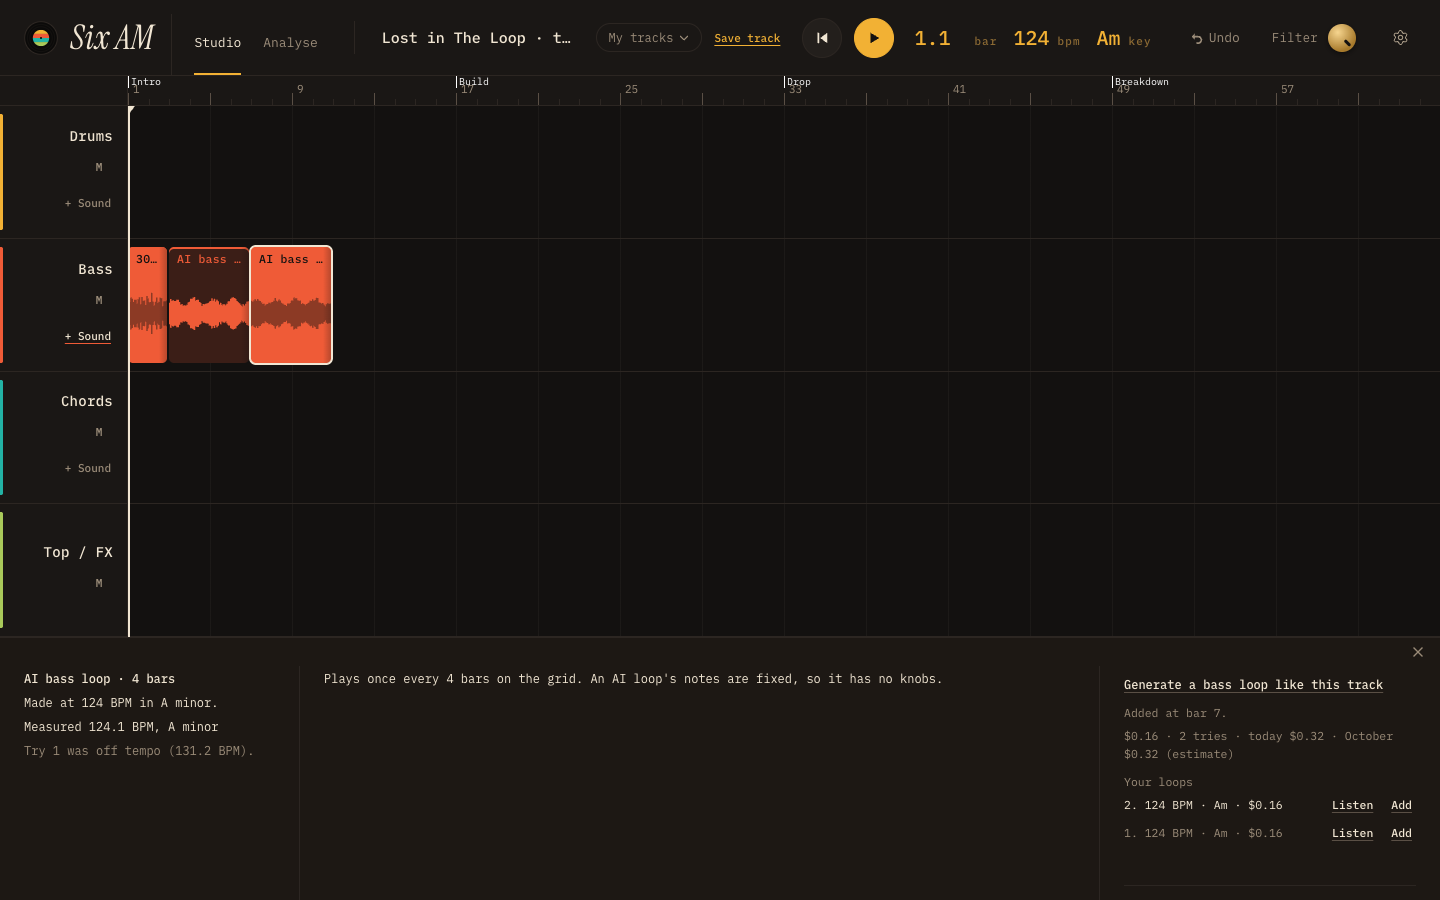
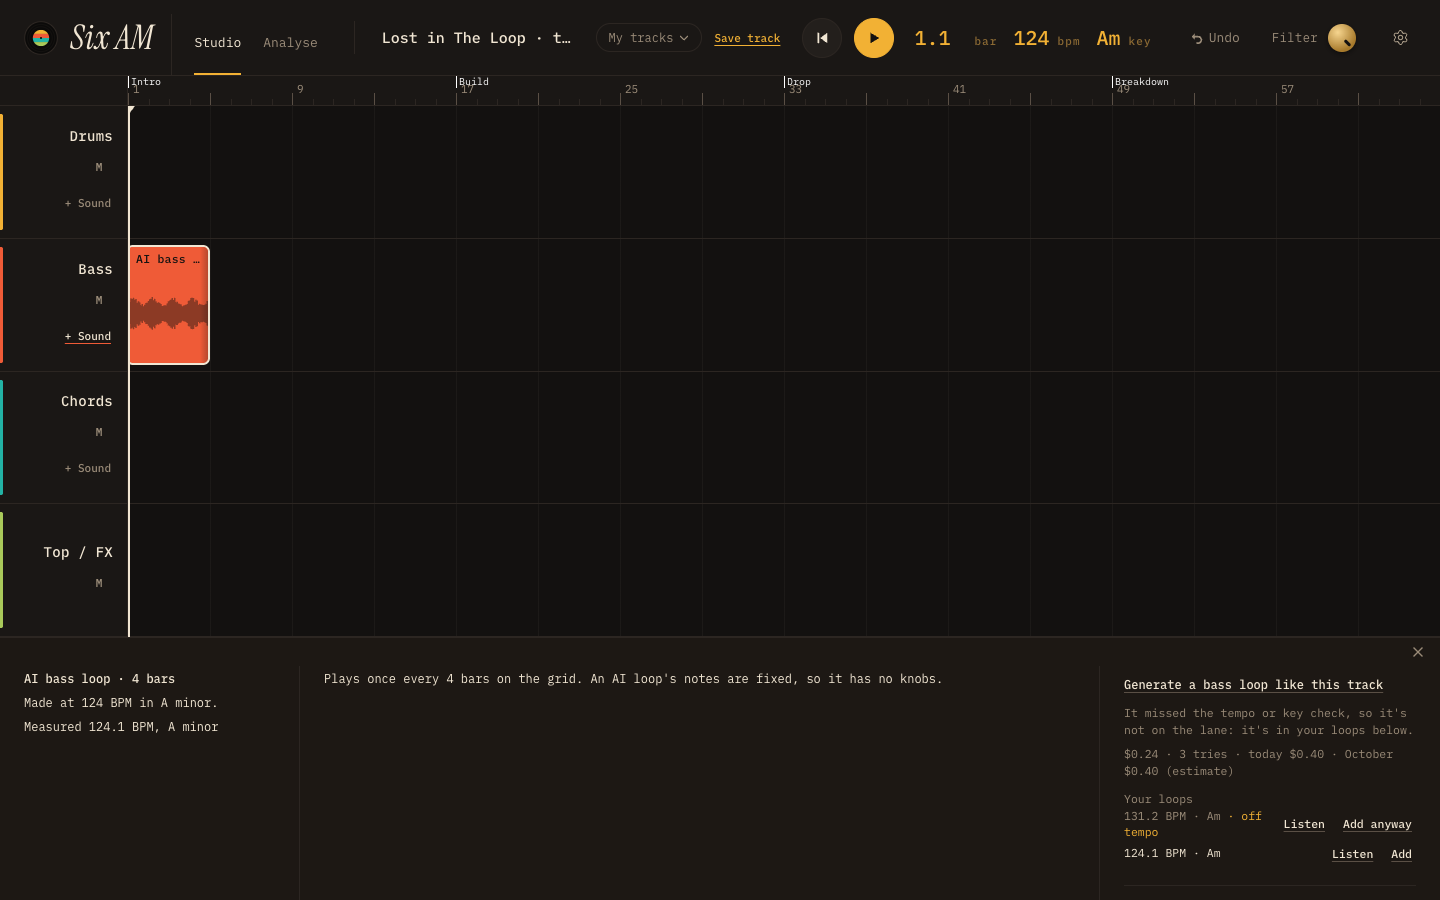
07 Six AM: last fixes N1–N4, at-the-drop label; T72

Changed region(s): [[0.0938, 0.2489, 0.25, 0.4044], [0.7812, 0.7778, 1.0, 0.9644], [0.0938, 0.8089, 0.125, 0.84]]

diff --git a/apps/07-six-am/src/components/studio/sound-drawer.tsx b/apps/07-six-am/src/components/studio/sound-drawer.tsx
@@ -36,8 +36,11 @@ function starter(lane: number, choice?: PresetId | KitId, pattern?: string): Sou
 
 /** One of this track's stored AI loops, as GET /api/loops/generate?analysisId= lists it (numbers only). */
 type Listed = { id: string; bpm: number; key: string; scale: string; bars: number; costUsd: number; draws: number; checked: boolean; measured: { bpm: number; key: string; scale: string } | null; createdAt: string };
-type AiState = { is: "idle" } | { is: "waiting" } | { is: "error" | "limit"; text: string } | { is: "done"; id: string; bar: number | null; why: string | null };
+type AiState = { is: "idle" } | { is: "waiting" } | { is: "error" | "limit"; text: string } | { is: "done"; id: string; bar: number | null; why: string | null; missed: boolean };
 const usdShort = (v: number) => `$${v.toFixed(2)}`;
+/** N2: why a stored loop missed the check, from what was measured; null when it passed. */
+const missTag = (l: { bpm: number; checked: boolean; measured: { bpm: number } | null }) =>
+  l.checked ? null : !l.measured ? "not measured" : Math.abs(l.measured.bpm - l.bpm) > 1 ? "off tempo" : "off key";
 
 export function SoundDrawer({ t, lane, sound, color, onClose }: {
   t: Timeline; lane: number;
@@ -92,7 +95,7 @@ export function SoundDrawer({ t, lane, sound, color, onClose }: {
     // F9: the history shows only the short question; the knob guide and settings go as hidden context.
     const message = `What do cutoff, resonance and ${env} do on my ${PRESETS[cur.preset].name} ${cur.lane === 1 ? "bass" : "chords"}, and which should I turn first?`;
     // F8: the Studio has no automation, so advice must be about one setting per sound.
-    const context = `Answer in two short sentences, for a house track. Current settings: cutoff ${Math.round(k.cutoff)} Hz, resonance ${k.resonance.toFixed(1)}, ${env} ${k.envelope.toFixed(2)} s.\nWhat the knobs do (from Six AM):\n${knobGuide(cur.preset)}\nThe Six AM Studio has no automation: knobs are set once per sound and don't move over time. To change a sound over time (e.g. open the filter for the drop), use two blocks of the sound with different settings. Never suggest automating or sweeping a knob during playback.`;
+    const context = `Answer in two short sentences, for a house track. Current settings: cutoff ${Math.round(k.cutoff)} Hz, resonance ${k.resonance.toFixed(1)}, ${env} ${k.envelope.toFixed(2)} s.\nWhat the knobs do (from Six AM):\n${knobGuide(cur.preset)}\nThe Six AM Studio has no automation: knobs are set once per sound and don't move over time. Knobs belong to the sound, so every block of one sound sounds the same. To change the sound for a part (e.g. a brighter filter for the drop), add the same preset again as a second sound with different knob settings ("Add as a new sound" in the drawer copies the current sound with its knobs) and use that one there. Never suggest automating or sweeping a knob during playback.`;
     try {
       const reply = await mentorApi(code).ask({ job: "chat", message, context });
       setMentor({ is: "done", text: reply.answer.sentences.map((x) => x.text).join(" "), cost: reply.message.costUsd });
@@ -167,7 +170,8 @@ export function SoundDrawer({ t, lane, sound, color, onClose }: {
       // F2: a new loop joins the list; it never replaces an earlier one.
       setMine((list) => [listed, ...list.filter((x) => x.id !== listed.id)].slice(0, 10));
       const tries: Try[] = Array.isArray(data.tries) ? data.tries : [];
-      setAi({ is: "done", id: listed.id, bar: place(asSound(listed)), why: triesReason(tries) });
+      // N1: a loop that missed the tempo/key check stays in Your loops ("Add anyway"), off the lane.
+      setAi({ is: "done", id: listed.id, bar: listed.checked ? place(asSound(listed)) : null, why: triesReason(tries), missed: !listed.checked });
     } catch {
       setAi({ is: "error", text: "Something went wrong making the loop. Try again." });
     }
@@ -189,8 +193,9 @@ export function SoundDrawer({ t, lane, sound, color, onClose }: {
   const at = atDrop ? drop!.bar : bar;
   const listenTo = (x: Sound) => t.setPreviewSound(t.previewSound?.id === x.id ? null : x);
   // One cost line in every state (the Mentor's form): the selected or newest loop, plus today / month.
-  const shown = aiLoop ? mine.find((l) => l.id === aiLoop.aiId) ?? { costUsd: aiLoop.costUsd, draws: aiLoop.draws }
-    : ai.is === "done" ? mine.find((l) => l.id === ai.id) : mine[0] ?? null;
+  // A loop just made (placed, or kept off the lane after a missed check) is the subject until another is picked.
+  const justMade = ai.is === "done" && (!aiLoop || ai.missed || aiLoop.aiId === ai.id) ? mine.find((l) => l.id === ai.id) : undefined;
+  const shown = justMade ?? (aiLoop ? mine.find((l) => l.id === aiLoop.aiId) ?? { costUsd: aiLoop.costUsd, draws: aiLoop.draws } : mine[0] ?? null);
   const costLine = shown ? aiCostLine(shown.costUsd, shown.draws, usage?.todayUsd ?? null, usage?.monthUsd ?? null, month()) : null;
   // Listen from the list: a stable preview id per stored loop, so Stop finds it again.
   const previewOf = (l: Listed): AiLoop => ({ ...asSound(l), id: `listen-${l.id}` });
@@ -257,12 +262,15 @@ export function SoundDrawer({ t, lane, sound, color, onClose }: {
             <>
               <div className={s.row}>
                 <button className={s.secondary} aria-pressed={listening && t.previewSound?.id === cur.id} onClick={() => listenTo(cur)}>{listening && t.previewSound?.id === cur.id ? "Stop" : "Listen"}</button>
-                {editing ? null : (
-                  <>
-                    <button className={s.primary} onClick={() => { t.setPreviewSound(null); t.addSound(draft, at); setDraft(starter(lane, chosen ?? undefined, "pattern" in draft ? draft.pattern : undefined)); }}>
-                      Add to lane
-                    </button>
-                  </>
+                {editing ? (
+                  // N3: knobs belong to the sound; a copy with its own knobs is how a part gets a different sound.
+                  <button className={s.secondary} title="A copy of this sound with its own knobs" onClick={() => { t.setPreviewSound(null); t.addSound({ ...cur, id: `snd${newId()}` }, at); }}>
+                    Add as a new sound
+                  </button>
+                ) : (
+                  <button className={s.primary} onClick={() => { t.setPreviewSound(null); t.addSound(draft, at); setDraft(starter(lane, chosen ?? undefined, "pattern" in draft ? draft.pattern : undefined)); }}>
+                    {atDrop ? `Add at the ${drop!.label.toLowerCase()} (bar ${drop!.bar})` : "Add to lane"}
+                  </button>
                 )}
                 {cur.source === "synth" ? (
                   <button className={s.link} onClick={askMentor} disabled={mentor.is === "asking"} title={KNOB_BASICS[focus]}>
@@ -270,9 +278,11 @@ export function SoundDrawer({ t, lane, sound, color, onClose }: {
                   </button>
                 ) : null}
               </div>
-              {editing ? <p className={s.dim}>Changes apply to every block of this sound.</p> : (
-                // F10: where Add puts it: the playhead, or the template's drop.
+              {/* F10: where Add (or a new sound) goes: the playhead, or the template's drop. In edit mode the
+                  same line first says that knob changes reach every block of this sound. */}
+              {editing && !(drop && drop.bar !== bar) ? <p className={s.dim}>Changes apply to every block of this sound.</p> : (
                 <p className={s.where} role="radiogroup" aria-label="Where to add">
+                  {editing ? <span>Changes apply to every block. New sound:&nbsp;</span> : null}
                   <button role="radio" aria-checked={!atDrop} className={cx(s.whereBtn, !atDrop && s.whereOn)} onClick={() => setWhere("playhead")}>at bar {bar}</button>
                   {drop && drop.bar !== bar ? <>
                     <span aria-hidden> · </span>
@@ -294,7 +304,7 @@ export function SoundDrawer({ t, lane, sound, color, onClose }: {
                 : ai.is === "limit" ? <p className={s.dim} role="status">{ai.text}</p>
                 : ai.is === "done" ? (
                   <p className={s.dim} role="status">
-                    {ai.bar !== null ? `Added at bar ${ai.bar}.` : "The Bass lane is full: it's in your loops below."}
+                    {ai.missed ? "It missed the tempo or key check, so it's not on the lane: it's in your loops below." : ai.bar !== null ? `Added at bar ${ai.bar}.` : "The Bass lane is full: it's in your loops below."}
                   </p>
                 ) : costLine ? null : <p className={s.dim}>About $0.08 a try, up to 3 tries ($0.24).</p>}
               {costLine ? <p className={s.dim}>{costLine}</p> : null}
@@ -306,11 +316,13 @@ export function SoundDrawer({ t, lane, sound, color, onClose }: {
                       const x = previewOf(l), on = t.previewSound?.id === x.id;
                       return (
                         <li key={l.id} className={cx(s.loop, aiLoop?.aiId === l.id && s.loopOn)} aria-current={aiLoop?.aiId === l.id || undefined}>
-                          <span title={l.measured ? `Measured ${l.measured.bpm.toFixed(1)} BPM, ${l.measured.key} ${l.measured.scale}` : undefined}>
-                            {mine.length - i}. {l.bpm} BPM · {l.key}{l.scale === "minor" ? "m" : ""} · {usdShort(l.costUsd)}{l.checked ? "" : " · check missed"}
+                          {/* N2: what was measured, with a short tag when the check missed. */}
+                          <span title={`Loop ${mine.length - i}: asked for ${l.bpm} BPM in ${l.key} ${l.scale}; ${usdShort(l.costUsd)}${l.draws > 1 ? `, ${l.draws} tries` : ""}`}>
+                            {l.measured ? `${l.measured.bpm.toFixed(1)} BPM · ${l.measured.key}${l.measured.scale === "minor" ? "m" : ""}` : `${l.bpm} BPM · not measured`}
+                            {missTag(l) ? <b className={s.tag}> · {missTag(l)}</b> : null}
                           </span>
                           <button className={s.mini} aria-pressed={on} onClick={() => listenTo(x)}>{on ? "Stop" : "Listen"}</button>
-                          <button className={s.mini} onClick={() => { const at = place(asSound(l)); if (at === null) setAi({ is: "limit", text: "The Bass lane is full: make room, then add it." }); }}>Add</button>
+                          <button className={s.mini} onClick={() => { const at = place(asSound(l)); if (at === null) setAi({ is: "limit", text: "The Bass lane is full: make room, then add it." }); }}>{l.checked ? "Add" : "Add anyway"}</button>
                         </li>
                       );
                     })}

diff --git a/apps/07-six-am/src/components/map/map-view.tsx b/apps/07-six-am/src/components/map/map-view.tsx
@@ -10,7 +10,7 @@ import { MapError } from "@/lib/map/listen";
 import { Logo } from "@/components/studio/logo";
 import { Notice, Unlock } from "@/components/studio/unlock";
 import { SettingsLink, ViewsNav } from "@/components/views-nav";
-import { startTabCapture, type TabCapture } from "@/lib/ears/capture";
+import { CaptureError, startTabCapture, type TabCapture } from "@/lib/ears/capture";
 import { EarsClient } from "@/lib/ears/ears-client";
 import { keyLabel } from "@/lib/ears/labels";
 import type { EarsAnalysis } from "@/lib/ears/results";
@@ -102,7 +102,11 @@ export function MapView({ id, auto }: { id: string; auto: boolean }) {
     } catch (e) {
       // F7: Stop ends the listen before anything is saved, so nothing half-done is kept.
       const stopped = e instanceof MapError && e.reason === "cancelled";
-      const message = stopped ? "Stopped. Nothing was saved; the map stays as it was." : e instanceof Error ? e.message : String(e);
+      // N4: the browser's own wording ("Could not start video source") means nothing to the owner.
+      const noShare = e instanceof CaptureError && e.reason === "cancelled";
+      const message = stopped ? "Stopped. Nothing was saved; the map stays as it was."
+        : noShare ? "Couldn't hear the tab. Press Listen and map, choose this tab and turn on Share tab audio."
+        : e instanceof Error ? e.message : String(e);
       player.pause();
       setLive(null);
       setProblem(message);

diff --git a/apps/07-six-am/src/lib/synths/presets.ts b/apps/07-six-am/src/lib/synths/presets.ts
@@ -59,7 +59,7 @@ export const PRESETS: Record<PresetId, Preset> = {
     id: "acid", kind: "bass", name: "303 Acid", attack: 0.003,
     about: "A Roland TB-303-style line: a sawtooth through a resonant filter that snaps open on every note, with accents and slides. Chicago acid house, 1987.",
     knobs: [
-      knob("cutoff", "Cutoff", 80, 3000, 420, "Hz", "Where the filter sits between notes. Slowly turning it up over a few bars is the classic acid build: the line goes from a muffled bubble to a scream."),
+      knob("cutoff", "Cutoff", 80, 3000, 420, "Hz", "Where the filter sits between notes: low is a muffled, rubbery bubble, high is a bright scream. For a brighter acid line in the drop, add it again as a second sound with a higher cutoff."),
       knob("resonance", "Resonance", 1, 22, 12, "Q", "The squelch. High resonance makes the filter whistle as it sweeps on each note; it is what makes a 303 sound 'acid'."),
       knob("envelope", "Decay", 0.04, 1, 0.22, "s", "How long the filter stays open after each note hits: short is plucky and tight, long is a wide 'wow' on every step. Accented notes open further."),
     ],

diff --git a/apps/07-six-am/src/components/studio/sound-drawer.module.css b/apps/07-six-am/src/components/studio/sound-drawer.module.css
@@ -78,7 +78,8 @@
 .mineHead { margin: 0 0 2px; font: 400 11.5px var(--f-mono); color: var(--muted); }
 .mine ul { flex: 1; min-height: 0; overflow-y: auto; overscroll-behavior: contain; list-style: none; margin: 0; padding: 0; display: flex; flex-direction: column; border-bottom: 1px solid var(--line); scrollbar-color: #3a322c transparent; }
 .loop { display: flex; align-items: center; gap: 10px; min-height: 28px; flex: none; font: 400 11.5px var(--f-mono); color: var(--muted); }
-.loop span { flex: 1; min-width: 0; overflow: hidden; text-overflow: ellipsis; white-space: nowrap; font-variant-numeric: tabular-nums; }
+.loop span { flex: 1; min-width: 0; line-height: 1.35; font-variant-numeric: tabular-nums; }
+.tag { font-weight: 400; color: var(--gold); }
 .loopOn span { color: var(--ink); }
 /* F10: where Add puts the sound */
 .where { margin: 0; display: flex; align-items: center; gap: 2px; font: 400 11.5px var(--f-mono); color: var(--muted); }

diff --git a/docs/products/07-six-am/decisions.md b/docs/products/07-six-am/decisions.md
@@ -213,3 +213,4 @@ Every decision except ops (decision 0026): L-numbers for learning decisions, T-n
 | L137 | 2026-10-26 | X1 fails 0/5 (boundaries precise, median 0.1 s, but only 54% found; build+drop merged, track ends under-split, long sections hide changes). One general method change (more boundaries: lower novelty threshold relative to the track, split long sections at strong phrase changes, build/drop split by kick return), tuned on the engineer's own frames (Mason, Kolter), not on the backup set; then X1 re-run once and reported as it stands (no fitting to 5 references; like L81/L82) | PM | X1 | |
 | T70 | 2026-10-26 | Map/Mentor fixes: Explain teaches (one sentence of facts, one or two on what the sections do; Tell me more = how to copy it in the Studio), ranges from the view's own blocks; answer scrolls into view; a section click plays the reference from its start; "Finding the beat…" and "Stop listening" (nothing saved); Mentor chat takes a hidden, unstored `context` (knob guide, "no automation"); the dev demo filter matches id + analysedAt | PM | fixes | |
 | T71 | 2026-10-26 | L137 method: boundaries from rule changes (kick returns/leaves, an energy step-down ≥ 0.2 in the last third), novelty above the track's own spread, sections over 32 bars split at their strongest 8-bar change, same-label neighbours not merged; labels unchanged | PM (engineer's proposal) | X1 | |
+| T72 | 2026-10-26 | Last fixes: a loop that missed its check stays off the lane (Your loops, Add anyway); rows show the measured tempo/key with off tempo/off key tags; "Add as a new sound" duplicates a sound so a part can have its own knobs, Mentor context and the 303 hint say so; the gold Add names the drop; the map's capture error in plain words | PM | fixes | |
